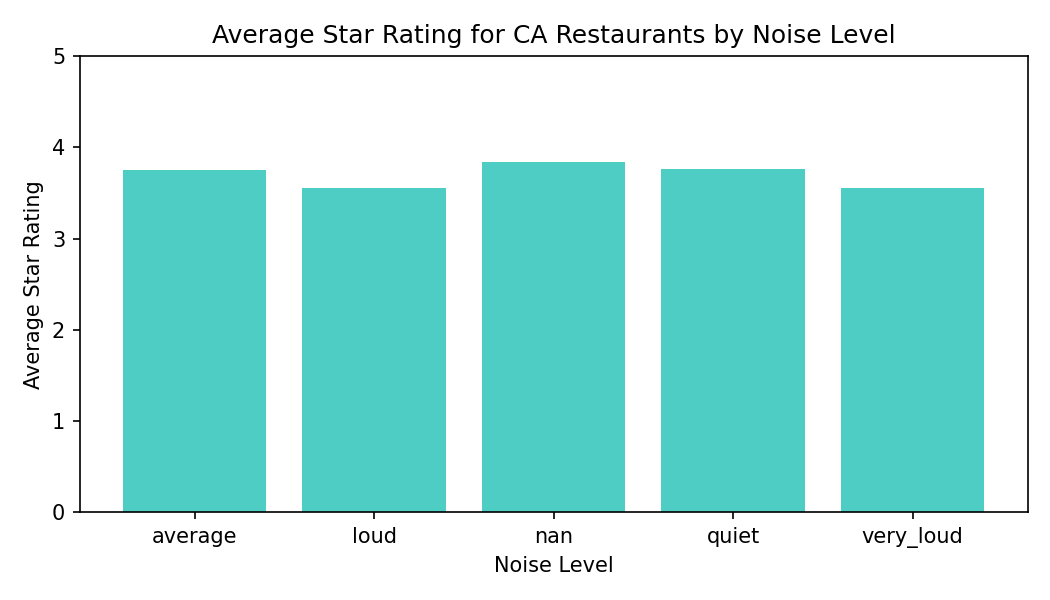
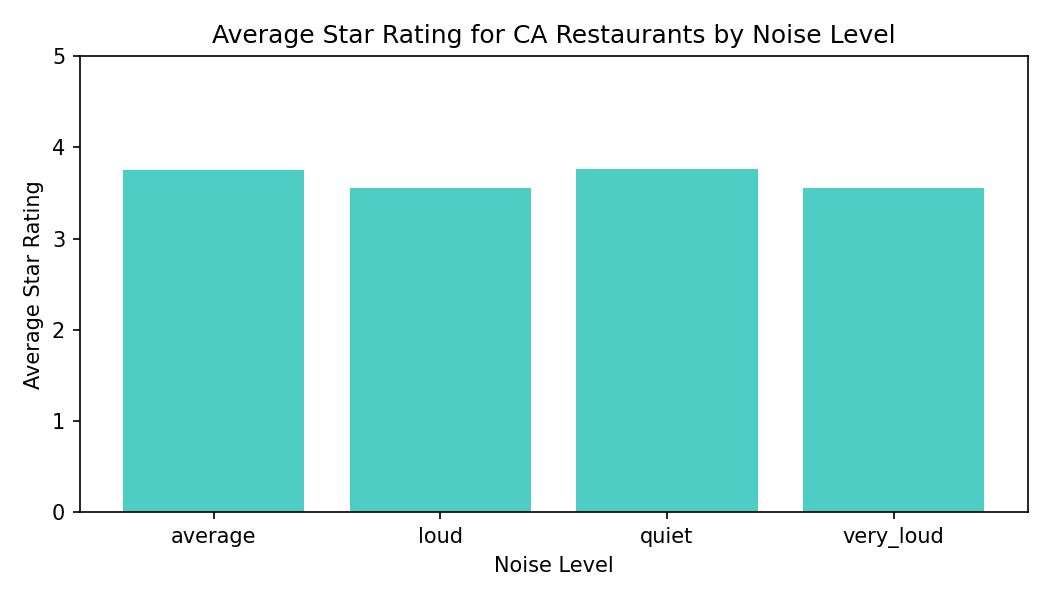
fixed nan variables stubbornly staying in noise level for CA and FL

Changed region(s): [[0.3352, 0.27, 0.9143, 0.93], [0.2438, 0.27, 0.3352, 0.87], [0.1524, 0.87, 0.2438, 0.93]]

diff --git a/final_project_consol.py b/final_project_consol.py
@@ -45,7 +45,7 @@ def extract_attributes(df):
 
 
 # ─────────────────────────────────────────────
-# KENNEITH + TIFFANY - PRICE RANGE ANALYSIS (FL + CA)
+# KENNEITH — PRICE RANGE ANALYSIS (FL + CA)
 # ─────────────────────────────────────────────
 
 def clean_price_range(df):
@@ -102,14 +102,14 @@ def run_linear_regression(df):
         preds = model.predict(X)
         r2 = r2_score(y, preds)
 
-        print(f"\n{state} Linear Regression - Price vs Stars")
+        print(f"\n{state} Linear Regression — Price vs Stars")
         print(f"  Coefficient: {model.coef_[0]:.4f}")
         print(f"  Intercept:   {model.intercept_:.4f}")
         print(f"  R² Score:    {r2:.4f}")
 
 
 # ─────────────────────────────────────────────
-# KENNEITH + TIFFANY - HOURS OF OPERATION ANALYSIS (FL + CA)
+# KENNEITH — HOURS OF OPERATION ANALYSIS (FL + CA)
 # ─────────────────────────────────────────────
 
 def parse_hours(hours_dict):
@@ -142,10 +142,40 @@ def parse_hours(hours_dict):
     return total_hours / count if count > 0 else None
 
 
+def parse_total_hours(hours_dict):
+    """Calculate total weekly hours open by summing across all days."""
+    if not isinstance(hours_dict, dict):
+        return None
+
+    total_hours = 0
+    count = 0
+
+    for day, hours in hours_dict.items():
+        try:
+            open_str, close_str = hours.split("-")
+
+            open_h, open_m = map(int, open_str.split(":"))
+            close_h, close_m = map(int, close_str.split(":"))
+
+            open_time = open_h + open_m / 60
+            close_time = close_h + close_m / 60
+
+            if close_time < open_time:
+                close_time += 24
+
+            total_hours += close_time - open_time
+            count += 1
+        except:
+            continue
+
+    return total_hours if count > 0 else None
+
+
 def clean_hours(df):
     """Drop rows with missing avg_daily_hours and bin into Short/Medium/Long."""
     df = df.copy()
-    df["avg_daily_hours"] = df["hours"].apply(parse_hours)
+    df["avg_daily_hours"]    = df["hours"].apply(parse_hours)
+    df["total_weekly_hours"] = df["hours"].apply(parse_total_hours)
     df = df.dropna(subset=["avg_daily_hours"])
 
     bins = [0, 8, 12, 24]
@@ -187,6 +217,29 @@ def plot_hours_vs_stars(hours_avg, save_path="stars_vs_hours.png"):
     print(f"Saved to {save_path}")
 
 
+def plot_weekly_hours_distribution(df, save_path="weekly_hours_distribution.png"):
+    """Side-by-side histograms of total weekly hours open for FL and CA."""
+    fl_hours = df[df["state"] == "FL"]["total_weekly_hours"].dropna()
+    ca_hours = df[df["state"] == "CA"]["total_weekly_hours"].dropna()
+
+    fig, (ax1, ax2) = plt.subplots(1, 2, figsize=(12, 5), sharey=True)
+
+    ax1.hist(fl_hours, bins=20, color="#FF6B6B", edgecolor="black")
+    ax1.set_title("FL Total Weekly Hours Distribution")
+    ax1.set_xlabel("Total Weekly Hours Open")
+    ax1.set_ylabel("Number of Restaurants")
+
+    ax2.hist(ca_hours, bins=20, color="#4ECDC4", edgecolor="black")
+    ax2.set_title("CA Total Weekly Hours Distribution")
+    ax2.set_xlabel("Total Weekly Hours Open")
+
+    plt.suptitle("Total Weekly Hours Open: FL vs CA", fontsize=13)
+    plt.tight_layout()
+    plt.savefig(save_path, dpi=150)
+    plt.show()
+    print(f"Saved to {save_path}")
+
+
 def run_hours_regression(df):
     """Run linear regression (avg_daily_hours -> stars) for each state and print results."""
     for state in ["FL", "CA"]:
@@ -200,14 +253,66 @@ def run_hours_regression(df):
         preds = model.predict(X)
         r2 = r2_score(y, preds)
 
-        print(f"\n{state} Linear Regression - Hours vs Stars")
+        print(f"\n{state} Linear Regression — Hours vs Stars")
         print(f"  Coefficient: {model.coef_[0]:.4f}")
         print(f"  Intercept:   {model.intercept_:.4f}")
         print(f"  R² Score:    {r2:.4f}")
 
 
+def calc_total_weekly_hours(hours_dict):
+    """Sum total hours open across all days in a week."""
+    if not isinstance(hours_dict, dict):
+        return None
+
+    total = 0
+    for day, hours in hours_dict.items():
+        try:
+            open_str, close_str = hours.split("-")
+
+            open_h, open_m = map(int, open_str.split(":"))
+            close_h, close_m = map(int, close_str.split(":"))
+
+            open_time = open_h + open_m / 60
+            close_time = close_h + close_m / 60
+
+            if close_time < open_time:
+                close_time += 24
+
+            total += close_time - open_time
+        except:
+            continue
+
+    return total if total > 0 else None
+
+
+def plot_weekly_hours_distribution(df, save_path="weekly_hours_distribution.png"):
+    """Side-by-side histograms of total weekly hours open for FL vs CA."""
+    df = df.copy()
+    df["total_weekly_hours"] = df["hours"].apply(calc_total_weekly_hours)
+
+    fl_hours = df[df["state"] == "FL"]["total_weekly_hours"].dropna()
+    ca_hours = df[df["state"] == "CA"]["total_weekly_hours"].dropna()
+
+    fig, axes = plt.subplots(1, 2, figsize=(12, 5), sharey=True)
+
+    axes[0].hist(fl_hours, bins=20, color="#FF6B6B", edgecolor="black")
+    axes[0].set_title("FL Total Weekly Hours Distribution")
+    axes[0].set_xlabel("Total Weekly Hours Open")
+    axes[0].set_ylabel("Number of Restaurants")
+
+    axes[1].hist(ca_hours, bins=20, color="#4ECDC4", edgecolor="black")
+    axes[1].set_title("CA Total Weekly Hours Distribution")
+    axes[1].set_xlabel("Total Weekly Hours Open")
+
+    plt.suptitle("Total Weekly Hours Open: FL vs CA", fontsize=13)
+    plt.tight_layout()
+    plt.savefig(save_path, dpi=150)
+    plt.show()
+    print(f"Saved to {save_path}")
+
+
 # ─────────────────────────────────────────────
-#      DISTRIBUTION + CORRELATION PLOTS
+# KENNEITH — DISTRIBUTION + CORRELATION PLOTS
 # ─────────────────────────────────────────────
 
 def plot_star_distribution(df, save_path="star_distribution.png"):
@@ -252,14 +357,17 @@ def plot_correlation_bars(df, save_path="correlation_bars_fl_ca.png"):
 
 
 # ─────────────────────────────────────────────
-# EILEEN - PARKING + NOISE ANALYSIS (CA ONLY)
+# EILEEN — PARKING + NOISE ANALYSIS (CA ONLY)
 # ─────────────────────────────────────────────
 
 def clean_noise(noise):
     """Clean the noise level value by removing extra characters and normalizing case."""
     if noise is None:
         return None
-    return str(noise).replace("u'", "").replace("'", "").strip().lower()
+    cleaned = str(noise).replace("u'", "").replace("'", "").strip().lower()
+    if cleaned in ("none", "nan", ""):
+        return None
+    return cleaned
 
 
 def parse_parking(parking):
@@ -299,7 +407,7 @@ def number_features(df_ca):
 
 def plot_stars_vs_parking(df_ca, save_path="stars_vs_parking_CA.png"):
     """Bar chart of average star rating by parking availability (CA only)."""
-    df_parking = df_ca[df_ca["has_parking"].notna()].copy()
+    df_parking = df_ca[df_ca["has_parking"].notna() & (df_ca["has_parking"] != "None") & (df_ca["has_parking"] != "")].copy()
     parking_avg = df_parking.groupby("has_parking")["stars"].mean().reset_index()
 
     plt.figure(figsize=(6, 4))
@@ -316,8 +424,8 @@ def plot_stars_vs_parking(df_ca, save_path="stars_vs_parking_CA.png"):
 
 def plot_stars_vs_noise(df_ca, save_path="stars_vs_noise_CA.png"):
     """Bar chart of average star rating by noise level (CA only)."""
-    df_noise = df_ca[df_ca["noise_level"].notna()].copy()
-    noise_avg = df_noise.groupby("noise_level")["stars"].mean().reset_index()
+    df_noise = df_ca[df_ca["noise_level"].notna() & (df_ca["noise_level"] != "None") & (df_ca["noise_level"] != "")].copy()
+    noise_avg = df_noise.groupby("noise_level", dropna=True)["stars"].mean().reset_index()
 
     plt.figure(figsize=(7, 4))
     plt.bar(noise_avg["noise_level"], noise_avg["stars"], color="#4ECDC4")
@@ -343,7 +451,7 @@ def parking_linear_regression(df_ca):
     preds = model.predict(X)
     r2 = r2_score(y, preds)
 
-    print("\nCA Linear Regression - Parking vs Stars")
+    print("\nCA Linear Regression — Parking vs Stars")
     print(f"  Coefficient: {model.coef_[0]:.4f}")
     print(f"  Intercept:   {model.intercept_:.4f}")
     print(f"  R² Score:    {r2:.4f}")
@@ -363,7 +471,7 @@ def noise_linear_regression(df_ca):
     preds = model.predict(X)
     r2 = r2_score(y, preds)
 
-    print("\nCA Linear Regression - Noise Level vs Stars")
+    print("\nCA Linear Regression — Noise Level vs Stars")
     print(f"  Coefficient: {model.coef_[0]:.4f}")
     print(f"  Intercept:   {model.intercept_:.4f}")
     print(f"  R² Score:    {r2:.4f}")
@@ -394,12 +502,12 @@ def plot_correlation_bars_ca(df_ca, save_path="correlation_bars_CA.png"):
 
 
 # ─────────────────────────────────────────────
-# KHAI - PARKING + NOISE ANALYSIS (FL ONLY)
+# KHAI — PARKING + NOISE ANALYSIS (FL ONLY)
 # ─────────────────────────────────────────────
 
 def plot_stars_vs_parking_fl(df_fl, save_path="stars_vs_parking_FL.png"):
     """Bar chart of average star rating by parking availability (FL only)."""
-    df_parking = df_fl[df_fl["has_parking"].notna()].copy()
+    df_parking = df_fl[df_fl["has_parking"].notna() & (df_fl["has_parking"] != "None") & (df_fl["has_parking"] != "")].copy()
     parking_avg = df_parking.groupby("has_parking")["stars"].mean().reset_index()
 
     plt.figure(figsize=(6, 4))
@@ -416,8 +524,8 @@ def plot_stars_vs_parking_fl(df_fl, save_path="stars_vs_parking_FL.png"):
 
 def plot_stars_vs_noise_fl(df_fl, save_path="stars_vs_noise_FL.png"):
     """Bar chart of average star rating by noise level (FL only)."""
-    df_noise = df_fl[df_fl["noise_level"].notna()].copy()
-    noise_avg = df_noise.groupby("noise_level")["stars"].mean().reset_index()
+    df_noise = df_fl[df_fl["noise_level"].notna() & (df_fl["noise_level"] != "None") & (df_fl["noise_level"] != "")].copy()
+    noise_avg = df_noise.groupby("noise_level", dropna=True)["stars"].mean().reset_index()
 
     plt.figure(figsize=(7, 4))
     plt.bar(noise_avg["noise_level"], noise_avg["stars"], color="#FF6B6B")
@@ -443,7 +551,7 @@ def parking_linear_regression_fl(df_fl):
     preds = model.predict(X)
     r2 = r2_score(y, preds)
 
-    print("\nFL Linear Regression - Parking vs Stars")
+    print("\nFL Linear Regression — Parking vs Stars")
     print(f"  Coefficient: {model.coef_[0]:.4f}")
     print(f"  Intercept:   {model.intercept_:.4f}")
     print(f"  R² Score:    {r2:.4f}")
@@ -463,7 +571,7 @@ def noise_linear_regression_fl(df_fl):
     preds = model.predict(X)
     r2 = r2_score(y, preds)
 
-    print("\nFL Linear Regression - Noise Level vs Stars")
+    print("\nFL Linear Regression — Noise Level vs Stars")
     print(f"  Coefficient: {model.coef_[0]:.4f}")
     print(f"  Intercept:   {model.intercept_:.4f}")
     print(f"  R² Score:    {r2:.4f}")
@@ -537,6 +645,9 @@ def main():
     print("\nPlotting hours vs stars...")
     plot_hours_vs_stars(hours_avg)
 
+    print("\nPlotting weekly hours distribution...")
+    plot_weekly_hours_distribution(df_hours)
+
     print("\nRunning hours linear regression...")
     run_hours_regression(df_hours)
     # Longer hours correlates with lower ratings in both states.
@@ -591,4 +702,3 @@ def main():
 
 if __name__ == "__main__":
     main()
-
